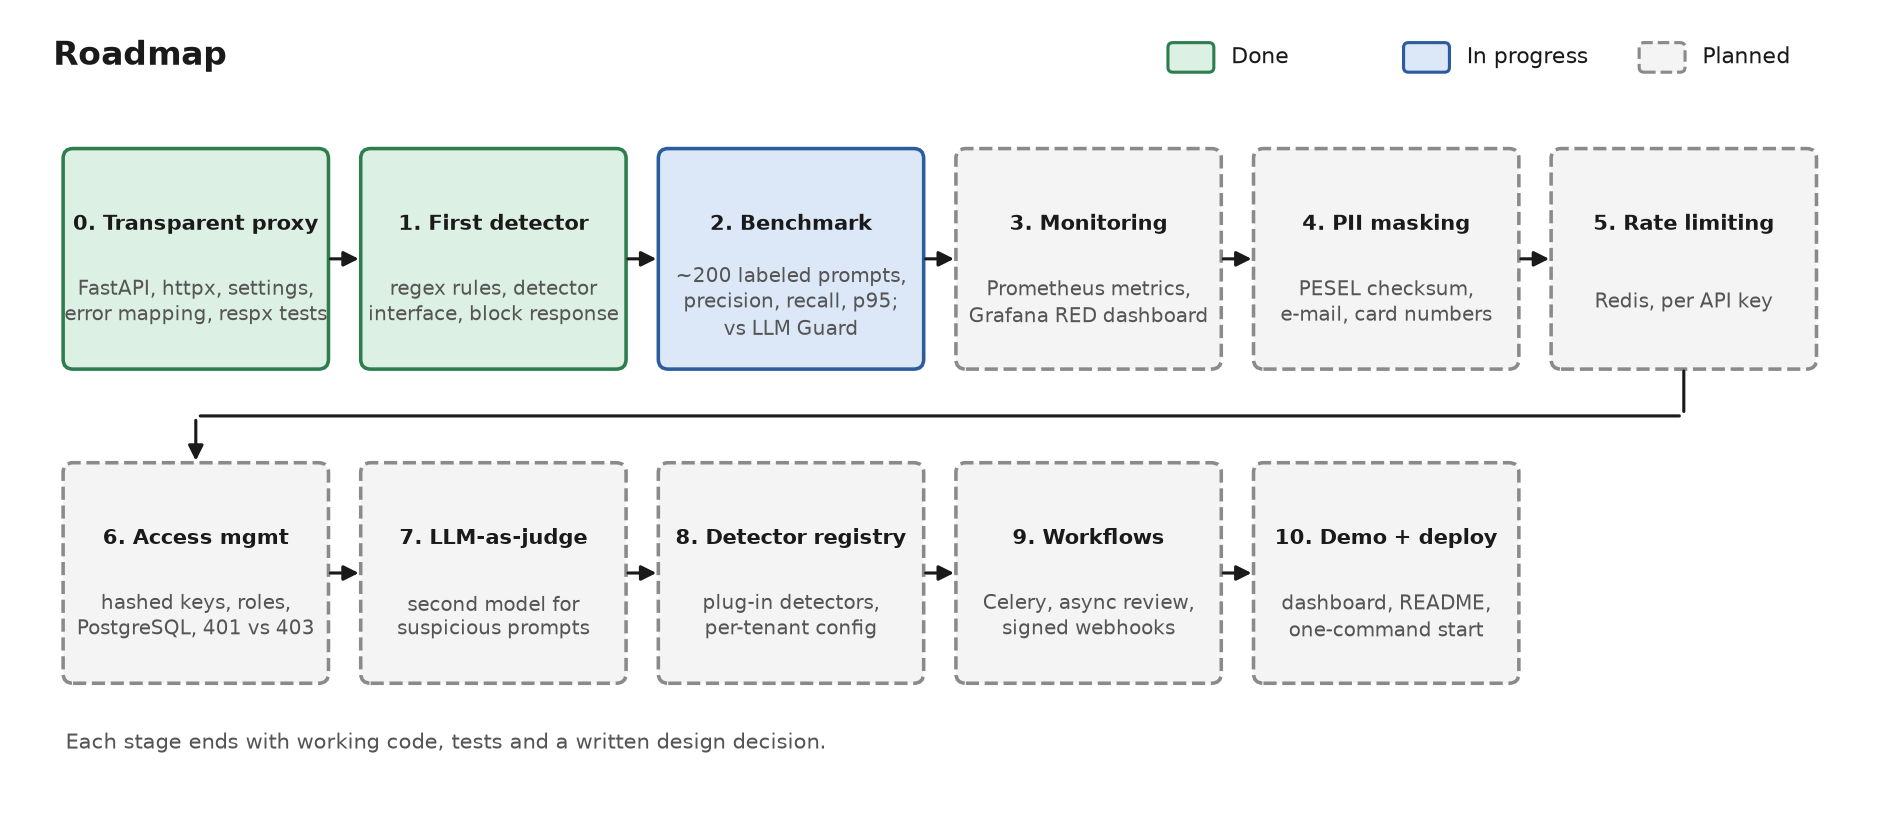
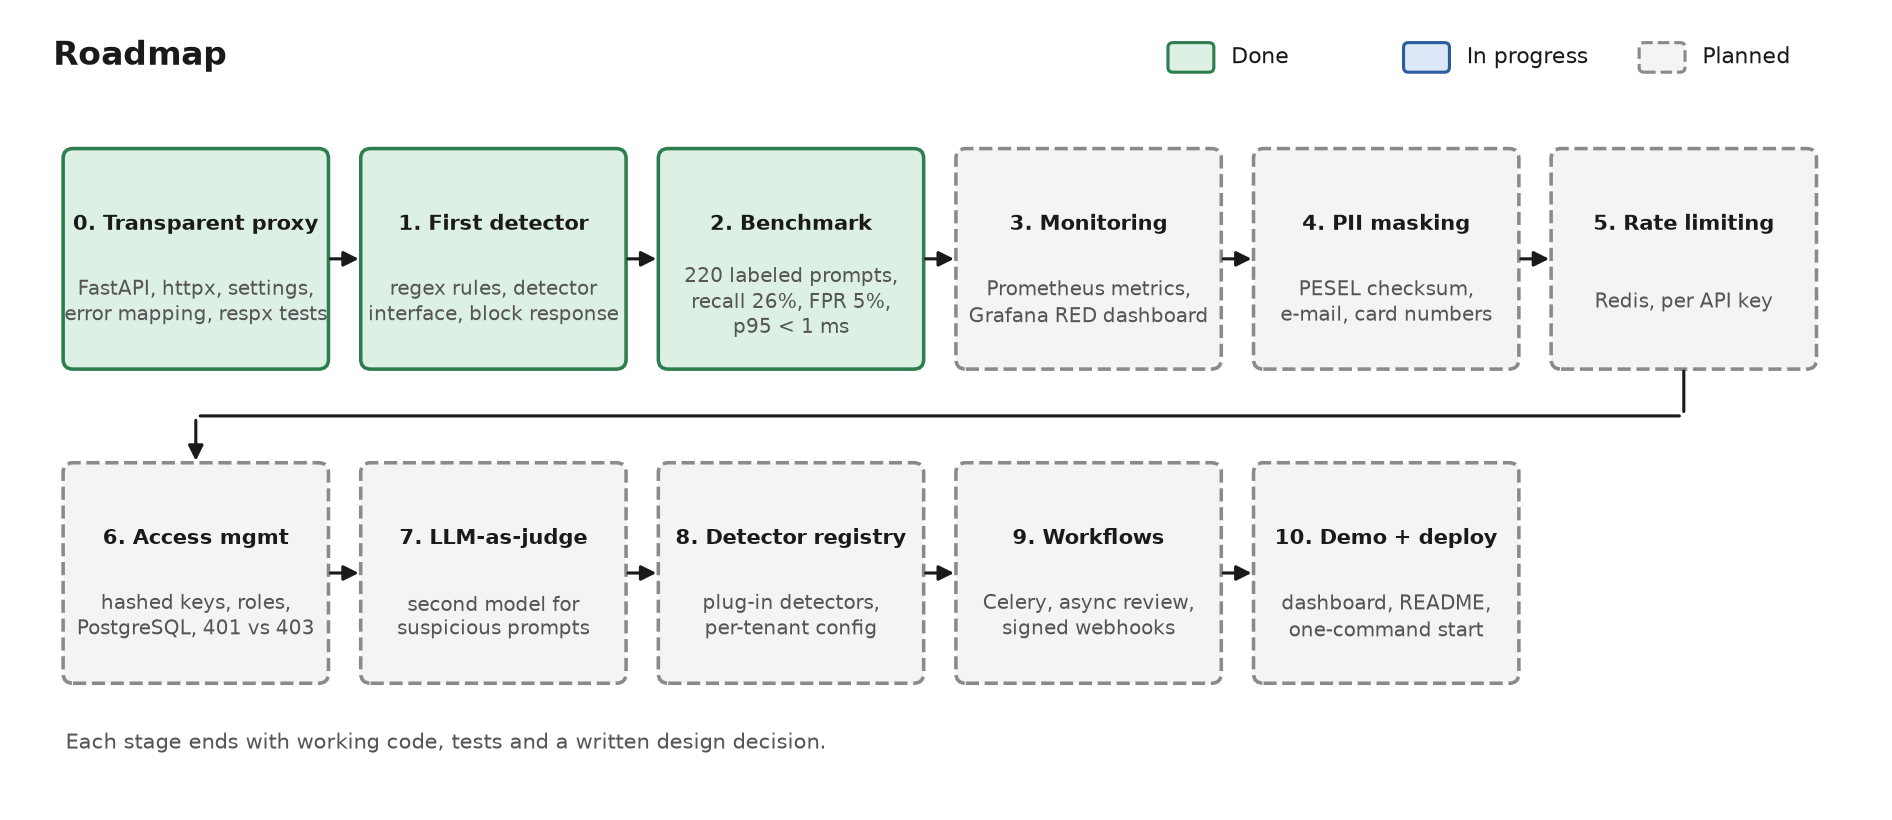
docs: mark benchmark done in roadmap diagram

diff --git a/docs/diagrams.py b/docs/diagrams.py
@@ -198,7 +198,7 @@ def roadmap():
     items = [
         ("0. Transparent proxy", "FastAPI, httpx, settings,\nerror mapping, respx tests", "done"),
         ("1. First detector", "regex rules, detector\ninterface, block response", "done"),
-        ("2. Benchmark", "~200 labeled prompts,\nprecision, recall, p95;\nvs LLM Guard", "wip"),
+        ("2. Benchmark", "220 labeled prompts,\nrecall 26%, FPR 5%,\np95 < 1 ms", "done"),
         ("3. Monitoring", "Prometheus metrics,\nGrafana RED dashboard", "planned"),
         ("4. PII masking", "PESEL checksum,\ne-mail, card numbers", "planned"),
         ("5. Rate limiting", "Redis, per API key", "planned"),
